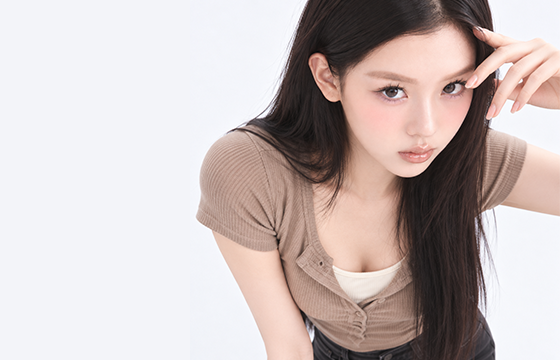
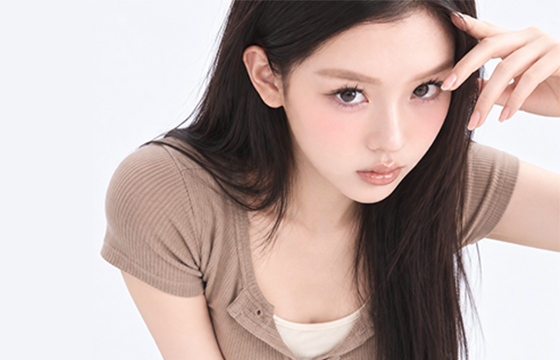
COLOR 1번 줄 모델 컷 이미지 교체

diff --git a/index.html b/index.html
@@ -145,7 +145,7 @@
               <p class="ap-section__color-desc" data-aos="fade-up">부드럽고 차분한 누드 브라운<br>자연스러운 온기를 더하는 데일리 누드 베이스.</p>
             </div>
             <figure class="ap-section__color-texture" data-aos="fade-up"><img src="images/color_texture01.png?v=6" alt="제형 01"></figure>
-            <figure class="ap-section__color-look" data-aos="fade-up"><img src="images/color_cut01.png?v=2" alt="모델 컷 01"></figure>
+            <figure class="ap-section__color-look" data-aos="fade-up"><img src="images/color_cut01.png?v=3" alt="모델 컷 01"></figure>
           </li>
           <li class="ap-section__color-list__item">
             <figure class="ap-image" data-aos="fade-up"><img src="images/color_look02.webp" alt="룩 02"></figure>
